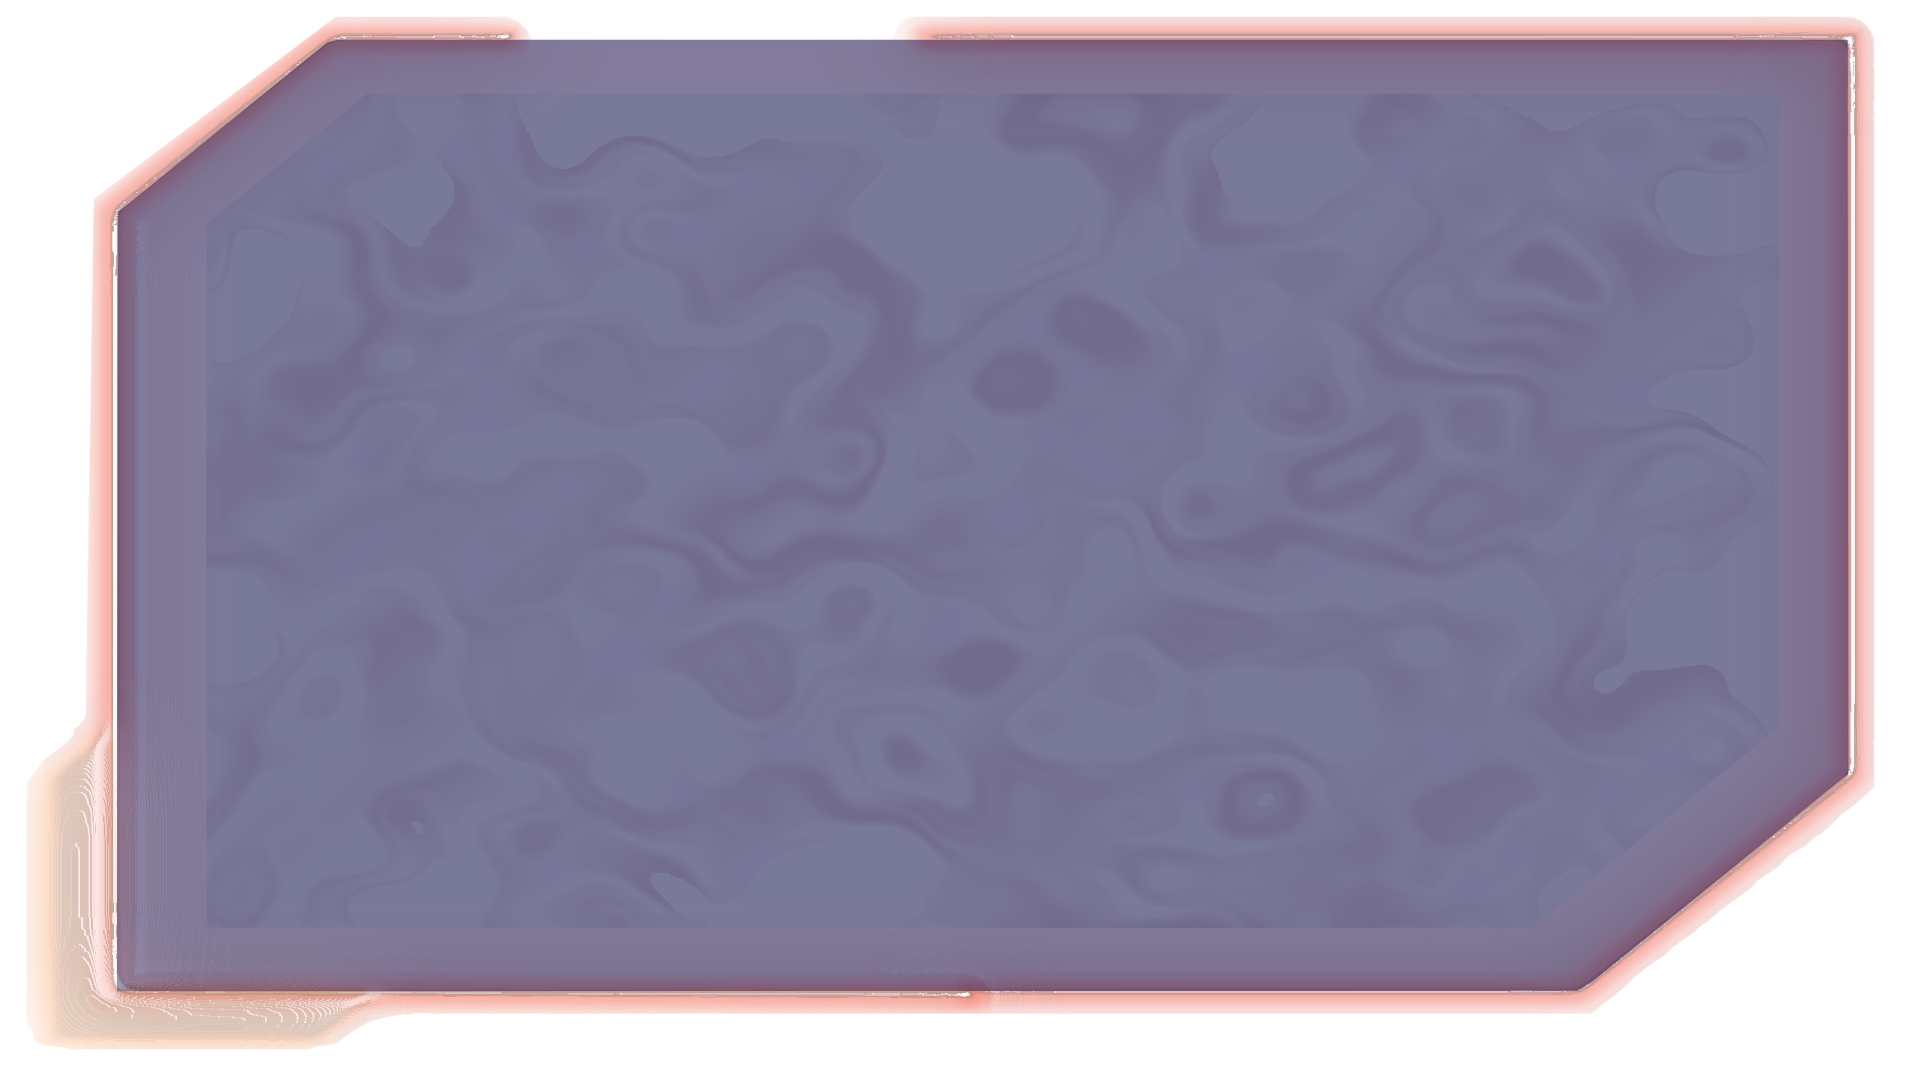
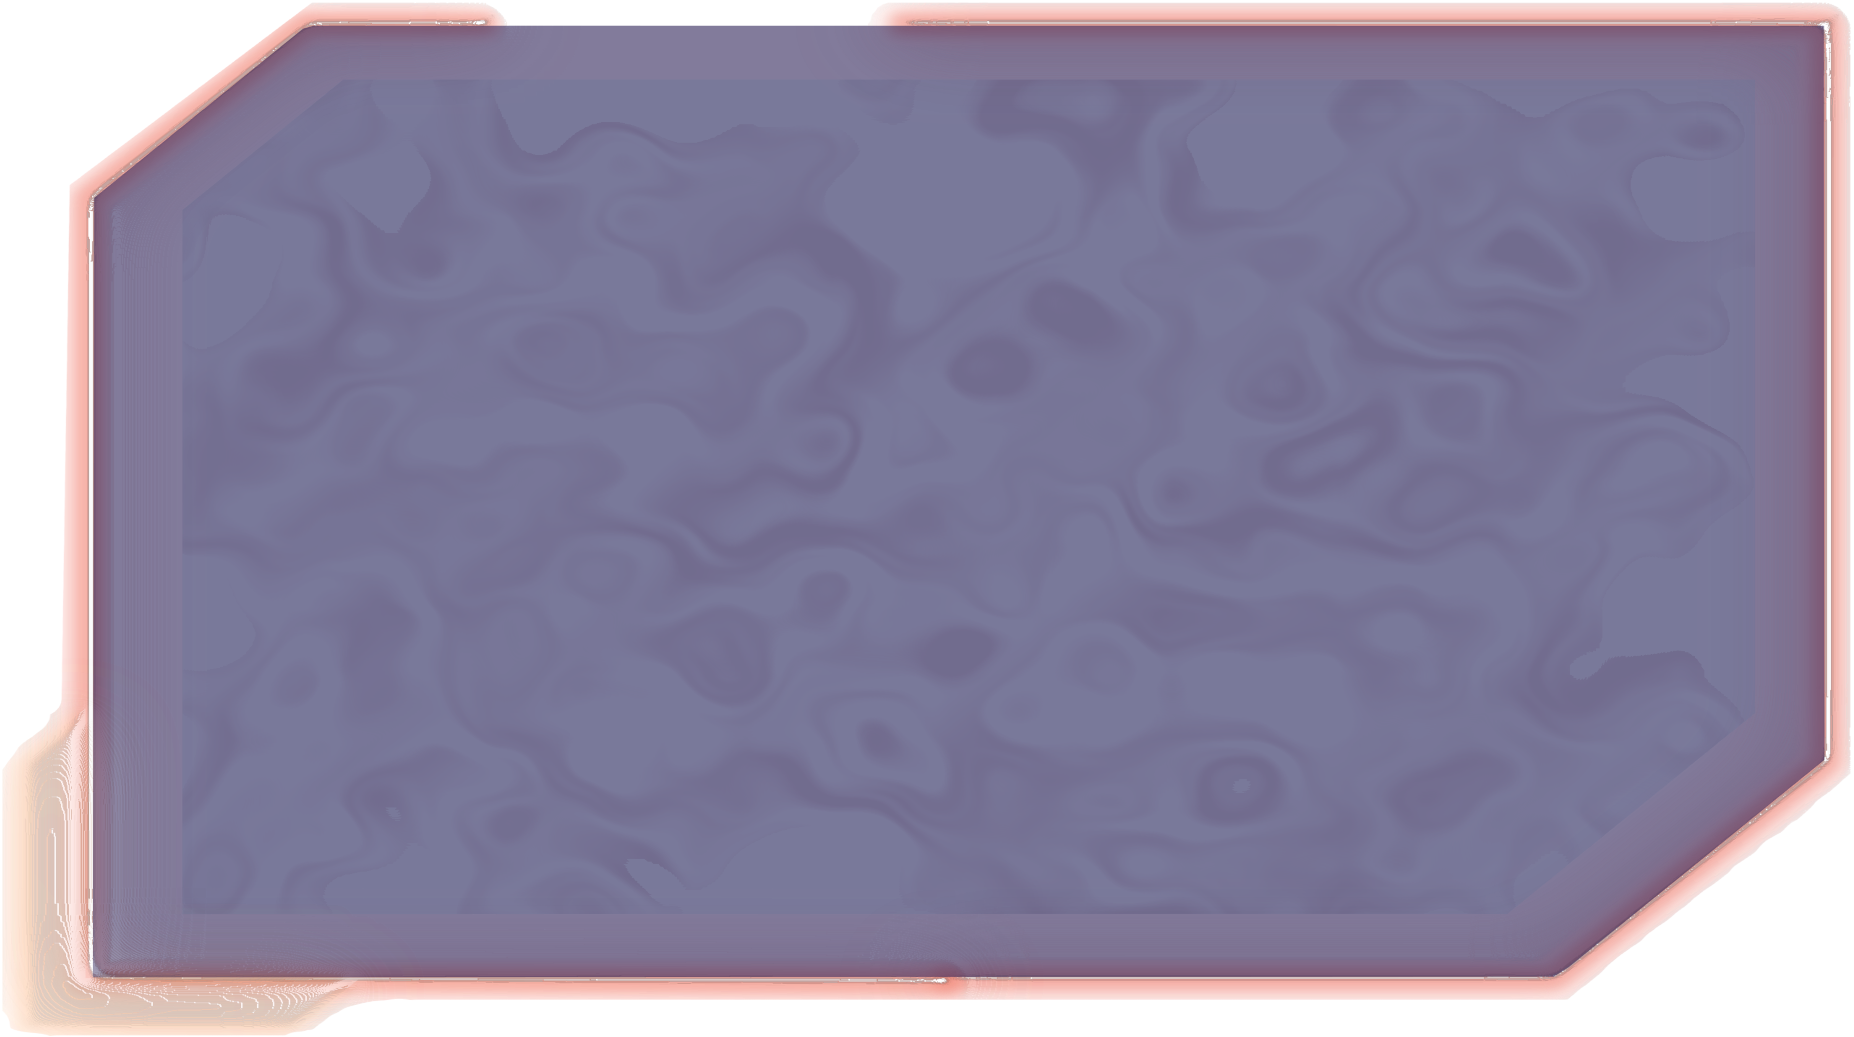
set destructor to reset Video back to original ssz

Changed region(s): [[0.0, 0.0, 1.0, 1.0]]

diff --git a/game.cpp b/game.cpp
@@ -4,6 +4,13 @@ namespace Clovicorn
 {
     Game::Game(int width, int height, std::string title)
     {
+        origWidth = width;
+        origHeight = height;
+        if (width > 1920)
+        {
+            width = 1920;
+            height = 1080;
+        }
         _data->window.create(VideoMode(width, height), title, Style::Fullscreen);
         _data->machine.addState(stateRef(new SplashState(this->_data)));
         this->run();
@@ -46,5 +53,10 @@ namespace Clovicorn
     void Game::setDt(int fps)
     {
         dt = 1.0f / fps;
+    }
+
+    Game::~Game()
+    {
+        _data->window.setSize(Vector2u(origWidth, origHeight));
     }
 }

diff --git a/game.hpp b/game.hpp
@@ -31,9 +31,11 @@ namespace Clovicorn
     public:
         Game(int width, int height, std::string title);
         void setDt(int fps);
-        // ~Game();
+        ~Game();
 
     private:
+        int origWidth;
+        int origHeight;
         float dt = 1.0f / FPS;
         Clock _clock;
         gameDataRef _data = std::make_shared<gameData>();
